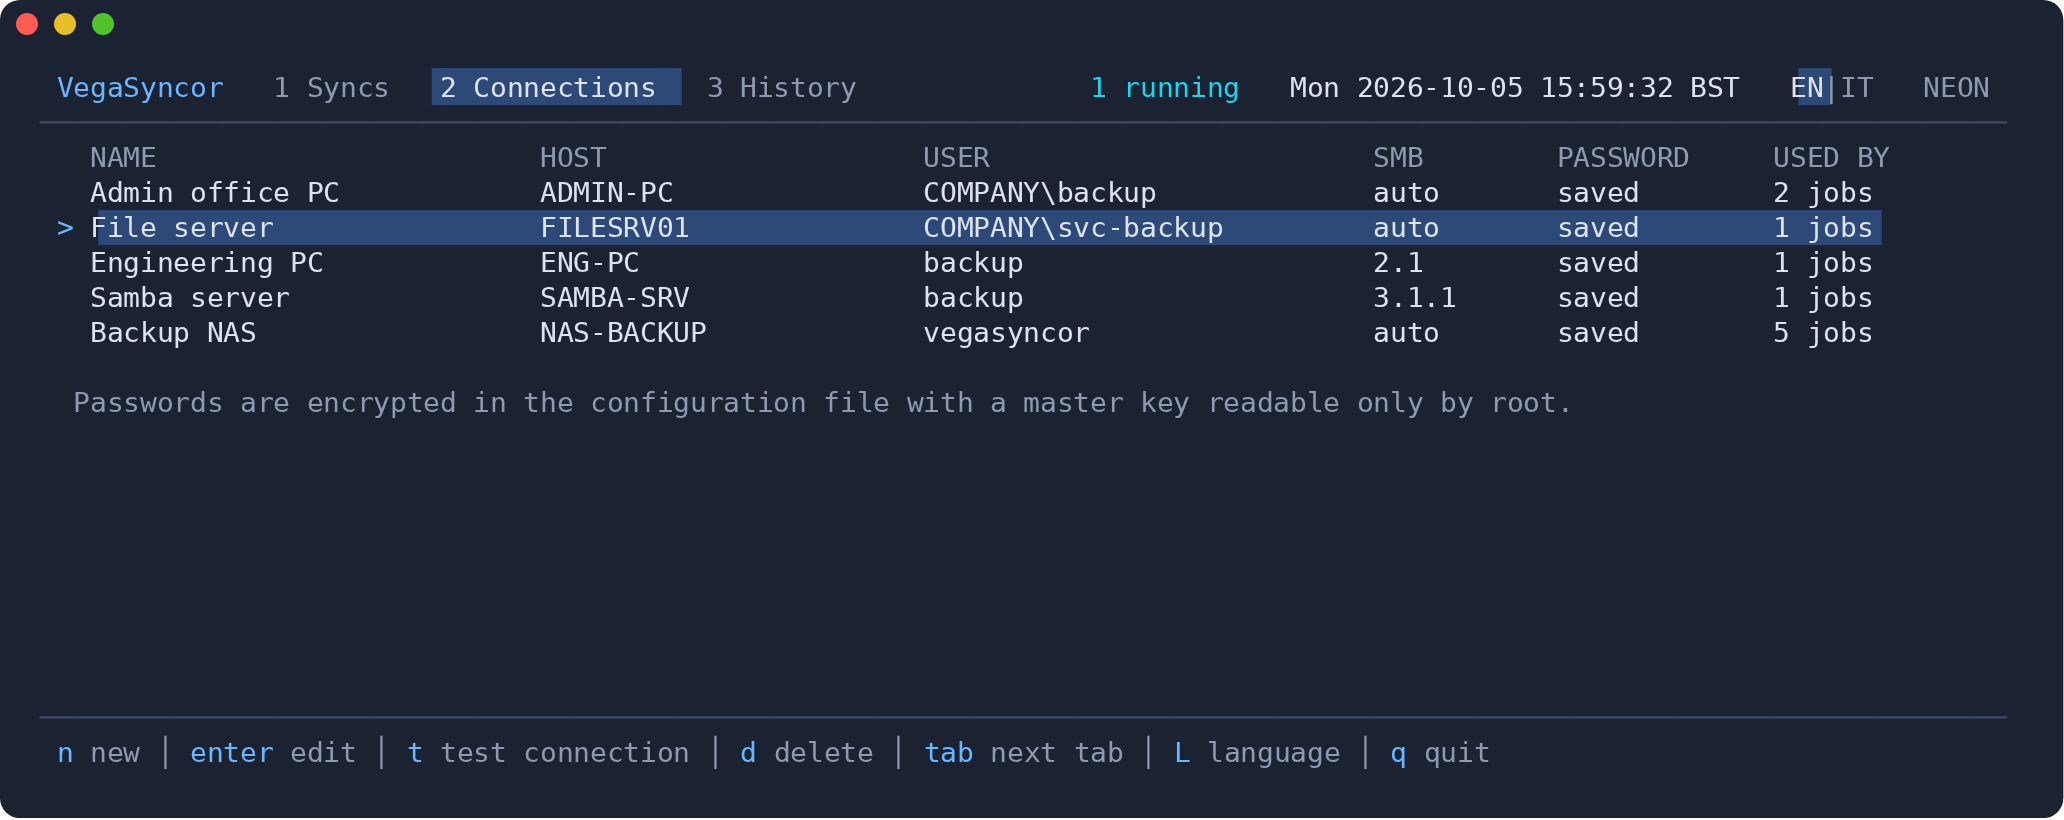
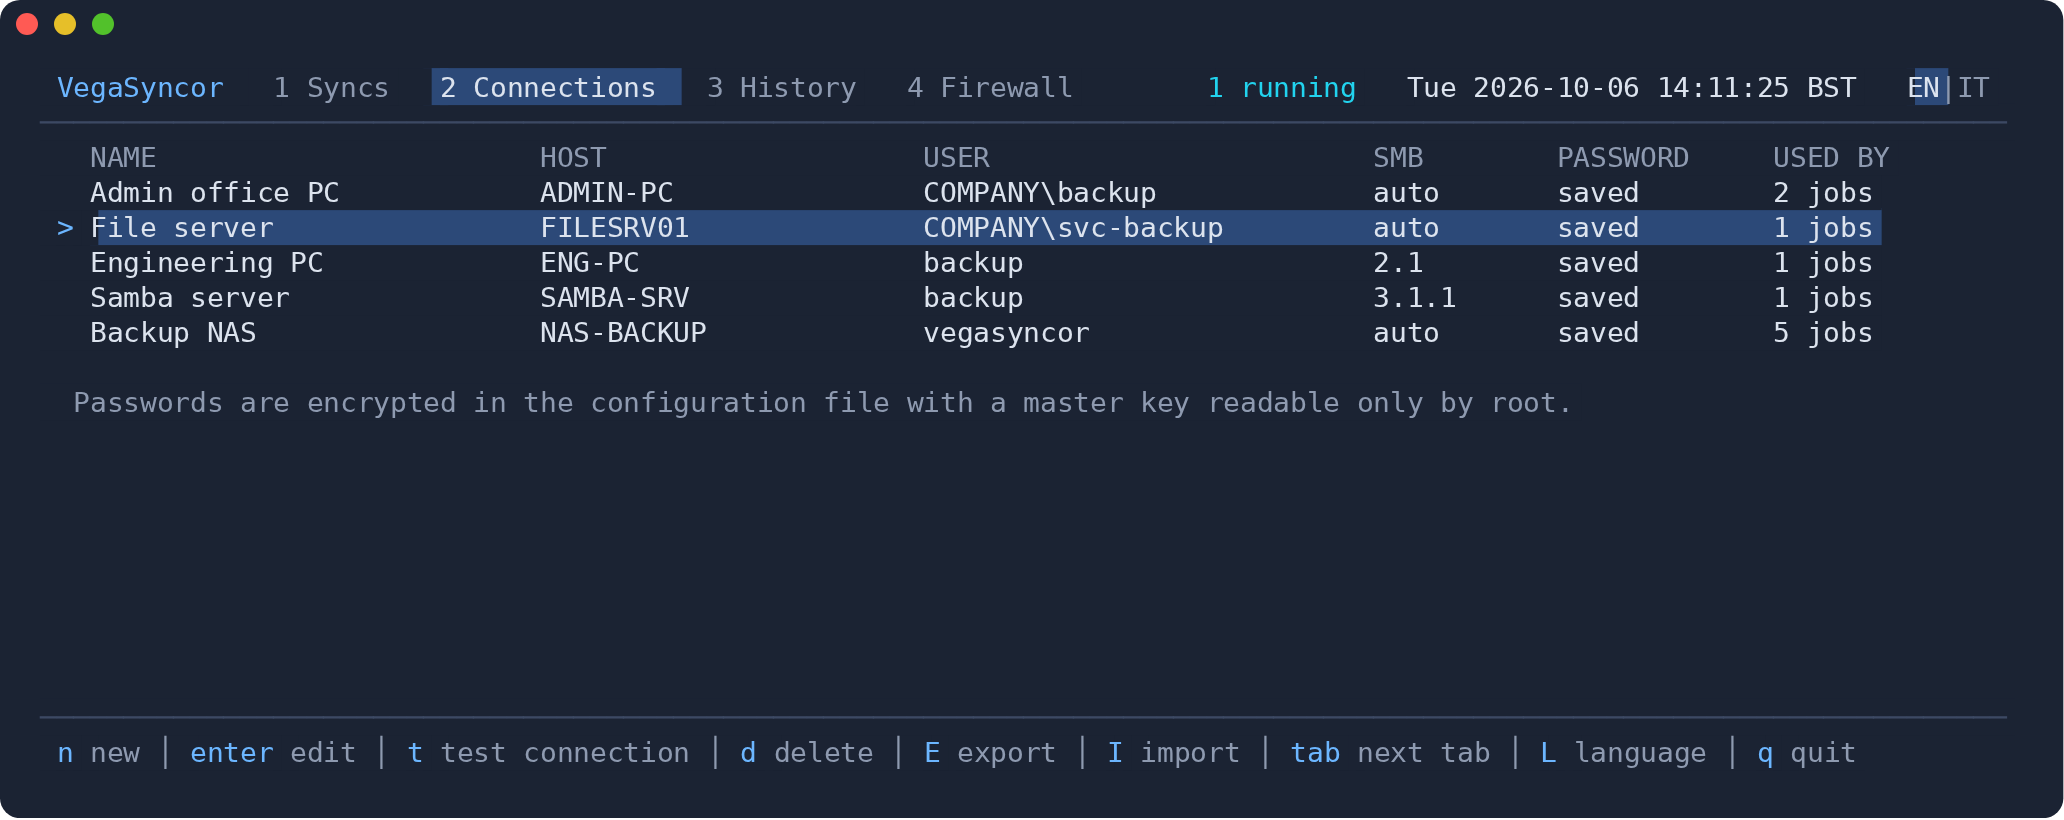
README: screenshots updated with the new features
Field highlighting in the job form, new destination folder in the browser,
export/import keys in the Connections tab and a new export screenshot.
The export form also gets a description for "Repeat password".

diff --git a/internal/i18n/it_transfer.go b/internal/i18n/it_transfer.go
@@ -29,13 +29,14 @@ func init() {
 		"The service is not running: the configuration was updated directly and is used at the next start.": "Il servizio non è in esecuzione: la configurazione è stata aggiornata direttamente e sarà usata al prossimo avvio.",
 
 		// TUI
-		"Export configuration":   "Esporta configurazione",
-		"Import configuration":   "Importa configurazione",
-		"File":                   "File",
-		"Export file":            "File di esportazione",
-		"Protection":             "Protezione",
-		"Repeat password":        "Ripeti password",
-		"at least %d characters": "almeno %d caratteri",
+		"Export configuration":         "Esporta configurazione",
+		"Import configuration":         "Importa configurazione",
+		"File":                         "File",
+		"Export file":                  "File di esportazione",
+		"Protection":                   "Protezione",
+		"Repeat password":              "Ripeti password",
+		"type the same password again": "digita di nuovo la stessa password",
+		"at least %d characters":       "almeno %d caratteri",
 		"connections with their passwords, syncs and settings; copy this file to the new server and import it there": "connessioni con le loro password, sincronizzazioni e impostazioni; copia questo file sul nuovo server e importalo lì",
 		"encrypts the file (AES-256): it will be asked when importing; without it the file cannot be opened":         "cifra il file (AES-256): verrà chiesta durante l'importazione; senza di essa il file non può essere aperto",
 		"file made with Export on the old server; it replaces ALL connections, syncs and settings of this server":    "file creato con Esporta sul vecchio server; sostituisce TUTTE le connessioni, sincronizzazioni e impostazioni di questo server",

diff --git a/internal/tui/transfer.go b/internal/tui/transfer.go
@@ -55,7 +55,7 @@ func newExportForm() *form {
 		section(T("Protection")),
 		newPassword("pass", T("Password"), Tf("at least %d characters", transfer.MinPassphrase)).
 			withHelp(T("encrypts the file (AES-256): it will be asked when importing; without it the file cannot be opened")),
-		newPassword("pass2", T("Repeat password"), ""),
+		newPassword("pass2", T("Repeat password"), "").withHelp(T("type the same password again")),
 	}}
 	fm.init()
 	return fm

diff --git a/README.md b/README.md
@@ -43,13 +43,15 @@ the clock (or the `L` key).
 ## Screenshots
 
 **Creating/editing a sync**: the box at the top always summarises *source ──> destination*, with
-the read-only indicator; the bar at the bottom describes the active field.
+the read-only indicator; the bar at the bottom describes the active field, and changed fields are
+marked with `*` until you save.
 
 ![Job edit form with source and destination summary](docs/screenshots/02-edit-job.png)
 
-**Choosing a folder**: shares and subfolders are browsed directly on the remote PC or server.
+**Choosing a folder**: shares and subfolders are browsed directly on the remote PC or server; a new
+destination folder can be created on the spot (`n`).
 
-![Window to browse the folders of a network share](docs/screenshots/03-browse-folders.png)
+![Window to browse the folders of a network share, creating a new folder](docs/screenshots/03-browse-folders.png)
 
 **Dry run**: before enabling a job you see exactly what would be copied, updated or deleted.
 
@@ -58,6 +60,11 @@ the read-only indicator; the bar at the bottom describes the active field.
 **Connections**: saved, encrypted credentials, reusable by several jobs.
 
 ![List of saved SMB connections](docs/screenshots/04-connections.png)
+
+**Export / import**: the whole configuration, passwords included, in one encrypted file to move the
+service to a new server.
+
+![Export form with file name and password](docs/screenshots/08-export.png)
 
 **History**: outcome of every run, with access to the detailed log.
 
